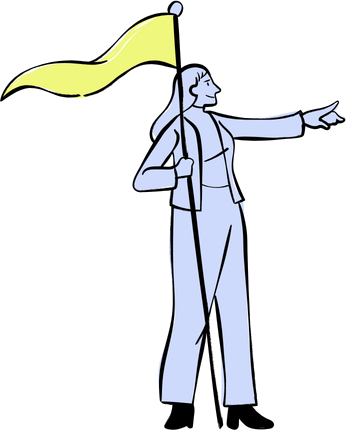
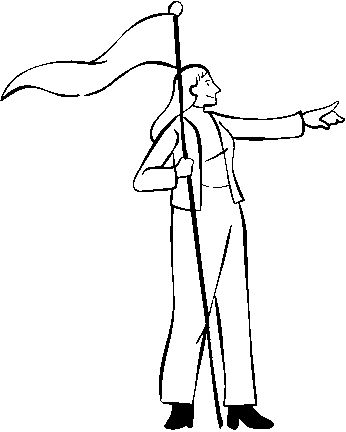
Bring back the CrowdCanvas peeps footer, recolored white/black
Restores the walking-crowd CrowdCanvas from before (same six
illustrated characters), then recolors every fill in that sprite --
skin, clothing, props -- to solid white with a black outline, keeping
the transparent silhouette edges intact. 4n.png/18n.png/8n.png are
edited in place since they're only ever used in this sprite; 12n.png
and 21n.png (also in the crowd) are left untouched on disk since
Problem.jsx and Reassurance.jsx still use their original brand
colors elsewhere on the page -- those two get the same recolor only
inside the composed sprite sheet, not as a file edit.

diff --git a/frontend/src/components/CrowdCanvas.jsx b/frontend/src/components/CrowdCanvas.jsx
@@ -1,0 +1,194 @@
+import { gsap } from "gsap";
+import { useEffect, useRef } from "react";
+
+// Ported from Skiper39's CrowdCanvas (Canvas + GSAP walking-crowd engine).
+// The sprite sheet here isn't a multi-frame walk cycle — each grid cell is
+// simply a different character; the walk illusion comes entirely from the
+// horizontal slide + vertical bob tween, so any grid of same-size character
+// cells works. `rows` is cells-per-row, `cols` is how many rows of cells.
+export default function CrowdCanvas({ src, rows = 15, cols = 7, className }) {
+  const canvasRef = useRef(null);
+
+  useEffect(() => {
+    const canvas = canvasRef.current;
+    if (!canvas) return undefined;
+    const ctx = canvas.getContext("2d");
+    if (!ctx) return undefined;
+
+    const randomRange = (min, max) => min + Math.random() * (max - min);
+    const randomIndex = (array) => randomRange(0, array.length) | 0;
+    const removeFromArray = (array, i) => array.splice(i, 1)[0];
+    const removeItemFromArray = (array, item) => removeFromArray(array, array.indexOf(item));
+    const removeRandomFromArray = (array) => removeFromArray(array, randomIndex(array));
+    const getRandomFromArray = (array) => array[randomIndex(array) | 0];
+
+    const resetPeep = ({ stage, peep }) => {
+      const direction = Math.random() > 0.5 ? 1 : -1;
+      const offsetY = 100 - 250 * gsap.parseEase("power2.in")(Math.random());
+      const startY = stage.height - peep.height + offsetY;
+      let startX;
+      let endX;
+      if (direction === 1) {
+        startX = -peep.width;
+        endX = stage.width;
+        peep.scaleX = 1;
+      } else {
+        startX = stage.width + peep.width;
+        endX = 0;
+        peep.scaleX = -1;
+      }
+      peep.x = startX;
+      peep.y = startY;
+      peep.anchorY = startY;
+      return { startX, startY, endX };
+    };
+
+    const normalWalk = ({ peep, props }) => {
+      const { startY, endX } = props;
+      const xDuration = 10;
+      const yDuration = 0.25;
+      const tl = gsap.timeline();
+      tl.timeScale(randomRange(0.5, 1.5));
+      tl.to(peep, { duration: xDuration, x: endX, ease: "none" }, 0);
+      tl.to(
+        peep,
+        { duration: yDuration, repeat: xDuration / yDuration, yoyo: true, y: startY - 10 },
+        0
+      );
+      return tl;
+    };
+    const walks = [normalWalk];
+
+    const createPeep = ({ image, rect }) => {
+      const peep = {
+        image,
+        rect: [],
+        width: 0,
+        height: 0,
+        drawArgs: [],
+        x: 0,
+        y: 0,
+        anchorY: 0,
+        scaleX: 1,
+        walk: null,
+        setRect: (r) => {
+          peep.rect = r;
+          peep.width = r[2];
+          peep.height = r[3];
+          peep.drawArgs = [peep.image, ...r, 0, 0, peep.width, peep.height];
+        },
+        render: (c) => {
+          c.save();
+          c.translate(peep.x, peep.y);
+          c.scale(peep.scaleX, 1);
+          c.drawImage(
+            peep.image,
+            peep.rect[0],
+            peep.rect[1],
+            peep.rect[2],
+            peep.rect[3],
+            0,
+            0,
+            peep.width,
+            peep.height
+          );
+          c.restore();
+        },
+      };
+      peep.setRect(rect);
+      return peep;
+    };
+
+    const img = document.createElement("img");
+    const stage = { width: 0, height: 0 };
+    const allPeeps = [];
+    const availablePeeps = [];
+    const crowd = [];
+
+    const createPeeps = () => {
+      const { naturalWidth: width, naturalHeight: height } = img;
+      const total = rows * cols;
+      const rectWidth = width / rows;
+      const rectHeight = height / cols;
+      for (let i = 0; i < total; i++) {
+        allPeeps.push(
+          createPeep({
+            image: img,
+            rect: [(i % rows) * rectWidth, ((i / rows) | 0) * rectHeight, rectWidth, rectHeight],
+          })
+        );
+      }
+    };
+
+    const addPeepToCrowd = () => {
+      const peep = removeRandomFromArray(availablePeeps);
+      const walk = getRandomFromArray(walks)({ peep, props: resetPeep({ peep, stage }) }).eventCallback(
+        "onComplete",
+        () => {
+          removePeepFromCrowd(peep);
+          addPeepToCrowd();
+        }
+      );
+      peep.walk = walk;
+      crowd.push(peep);
+      crowd.sort((a, b) => a.anchorY - b.anchorY);
+      return peep;
+    };
+    const removePeepFromCrowd = (peep) => {
+      removeItemFromArray(crowd, peep);
+      availablePeeps.push(peep);
+    };
+    const initCrowd = () => {
+      while (availablePeeps.length) {
+        addPeepToCrowd().walk.progress(Math.random());
+      }
+    };
+
+    const render = () => {
+      ctx.clearRect(0, 0, canvas.width, canvas.height);
+      ctx.save();
+      ctx.scale(devicePixelRatio, devicePixelRatio);
+      crowd.forEach((peep) => peep.render(ctx));
+      ctx.restore();
+    };
+
+    const resize = () => {
+      stage.width = canvas.clientWidth;
+      stage.height = canvas.clientHeight;
+      canvas.width = stage.width * devicePixelRatio;
+      canvas.height = stage.height * devicePixelRatio;
+      crowd.forEach((peep) => peep.walk.kill());
+      crowd.length = 0;
+      availablePeeps.length = 0;
+      availablePeeps.push(...allPeeps);
+      initCrowd();
+    };
+
+    const reduceMotion = window.matchMedia?.("(prefers-reduced-motion: reduce)").matches;
+
+    const init = () => {
+      createPeeps();
+      resize();
+      if (reduceMotion) {
+        crowd.forEach((peep) => peep.walk.pause());
+        render();
+      } else {
+        gsap.ticker.add(render);
+      }
+    };
+    img.onload = init;
+    img.src = src;
+
+    const handleResize = () => resize();
+    window.addEventListener("resize", handleResize);
+    return () => {
+      window.removeEventListener("resize", handleResize);
+      gsap.ticker.remove(render);
+      crowd.forEach((peep) => {
+        if (peep.walk) peep.walk.kill();
+      });
+    };
+  }, [src, rows, cols]);
+
+  return <canvas ref={canvasRef} className={className} />;
+}

diff --git a/frontend/src/sections/Footer.jsx b/frontend/src/sections/Footer.jsx
@@ -1,13 +1,4 @@
-import CrowdRow from "../components/CrowdRow";
-
-const figures = [
-  "/illustrations/4n.png",
-  "/illustrations/18n.png",
-  "/illustrations/20n.png",
-  "/illustrations/8n.png",
-  "/illustrations/1N.png",
-  "/illustrations/2N.png",
-];
+import CrowdCanvas from "../components/CrowdCanvas";
 
 export default function Footer() {
   return (
@@ -28,8 +19,8 @@ export default function Footer() {
         </div>
       </div>
 
-      <div className="relative mt-12">
-        <CrowdRow figures={figures} />
+      <div className="relative mt-12 h-64 md:h-80">
+        <CrowdCanvas src="/crowd/peeps-strip.png" rows={6} cols={1} className="absolute inset-0 h-full w-full" />
       </div>
 
       <div className="relative mt-12 border-t border-forest/15 px-6 py-6">
